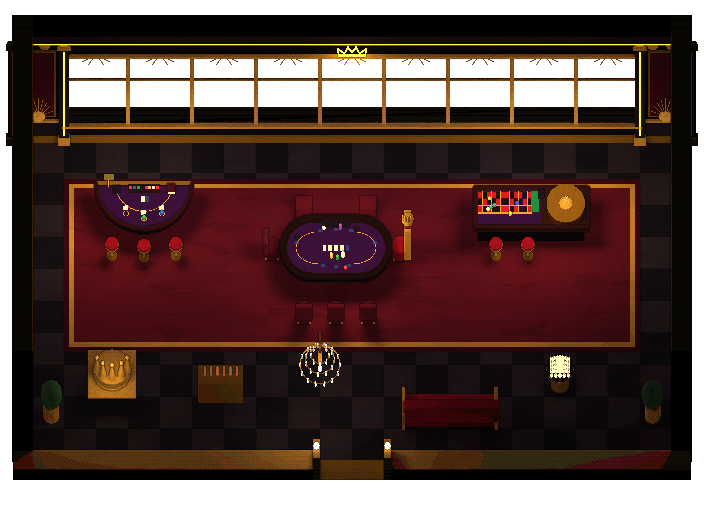
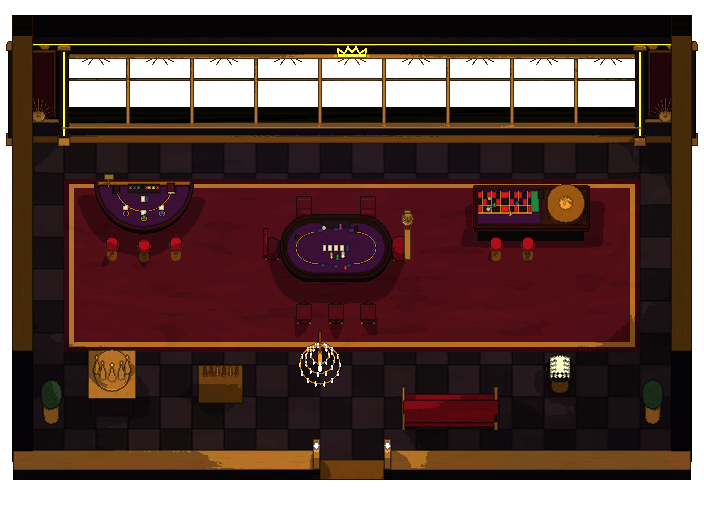
The Crown Room re-rendered in the toy finish: its neon crown and chandelier stay lit, and the crimson rug lies in one warm band (the lamps lower, the room's ambient lifted) instead of breaking into dark shapes
Claude-Session: https://claude.ai/code/session_018nrKRED6mogiaY9BWcycmi

diff --git a/tools/bridge-art/scenes/arcadia_casino_vip.py b/tools/bridge-art/scenes/arcadia_casino_vip.py
@@ -93,7 +93,10 @@ C.chandelier(k, 10.0, 12.1, 3.0, s=1.0, energy=40)
 for (x, r) in ((5.0, 9.5), (16.0, 9.0), (10.5, 11.5), (19.0, 6.0), (2.0, 7.5)):
     k.point_light(x, r, 2.5, '#ffd0a0', 14, radius=0.6)
 k.area_light(11.0, RB + 1.0, 3.8, '#8070c0', 70, 10.0, rot=(math.radians(-50), 0, 0))
-k.render(OUT, light_states={'full': {'flicker': 1.0}, 'dim': {'flicker': 0.82}}, light_samples=128, world_light=('#22142c', 0.42))
+k.render(OUT, light_states={'full': {'flicker': 1.0, '_art': 0.375}, 'dim': {'flicker': 0.82, '_art': 0.375}}, light_samples=128,
+         world_light=('#584436', 1.7))
+# (every lamp at three-eighths and the room's ambient lifted to a warm amber, so the rug lies in one band of the toy finish instead
+# of breaking into dark shapes where the bands' edges fell across it)
 
 # ---- the world ------------------------------------------------------------------------------------------------------------------
 P = 'PRESS E TO PLAY'
